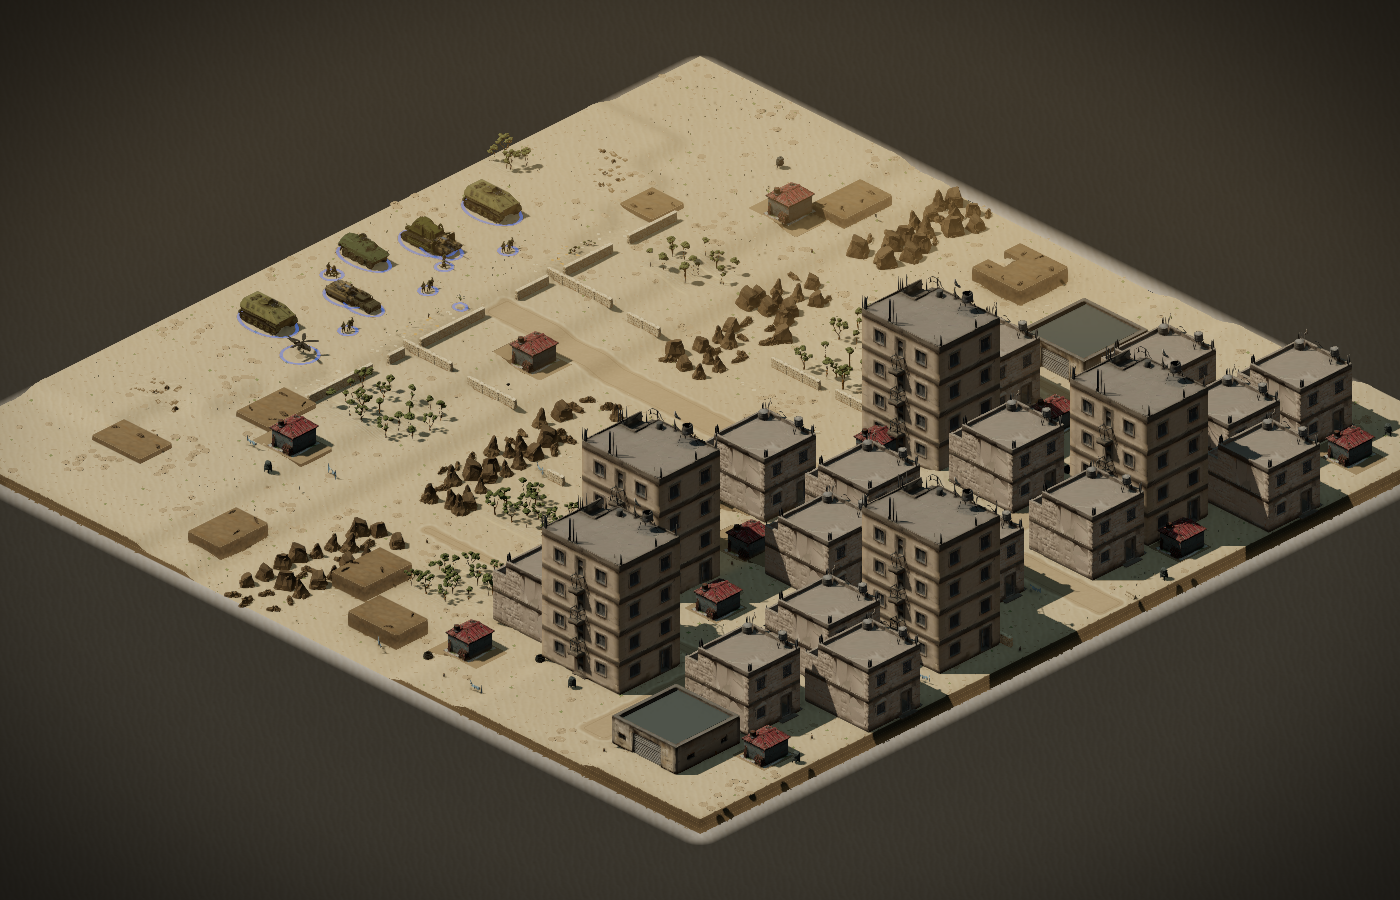
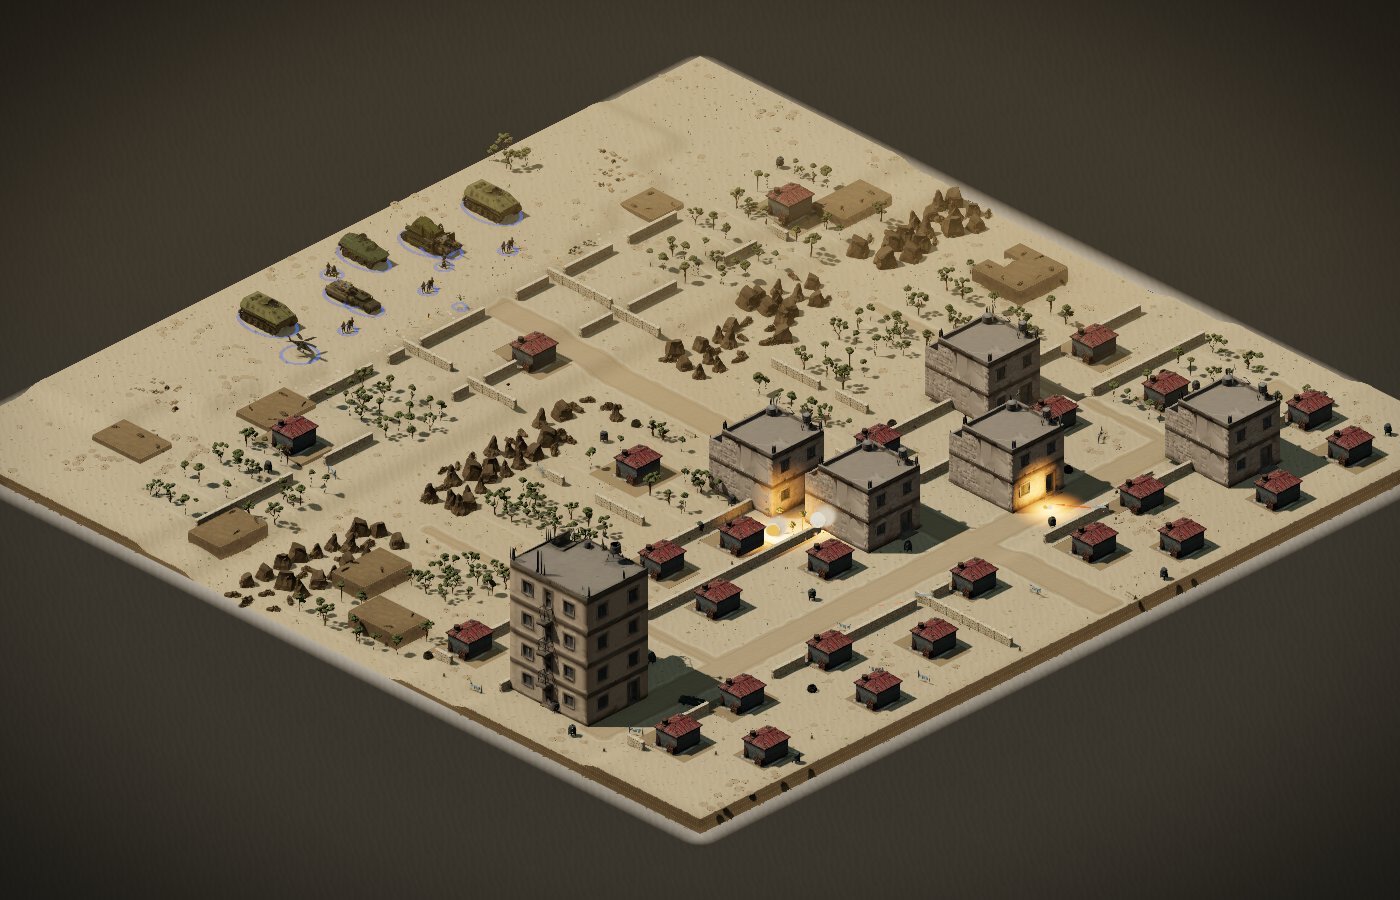
data(campaign): Beit Sahwan II terraces and IV quarry read at overview zoom (GH-382)
II: a second retaining wall along the x=13 step and walls along the three
town-side steps (gates only where roads cross), crop strips and scrub on the
treads, two more crags at the field corners; the east strip is now sheds and
small houses with one apartment block, so the terraces dominate the frame.
IV: the apartment blocks are gone, the quarter is broken houses (sheds) and
rubble; boulder and spoil heaps (level 3) ring the pit's rim, the haul ramp
and road are widened and kerbed with low walls, and the clinic route's vent
moves east of the yard. Probe moves the Zikit to (42,28). Pins: LADDER and
CAMPAIGN credits 5816 -> 5846 (II 190 -> 200, IV 180 -> 200); terrain fixture
regenerated; overview captures re-shot.

diff --git a/tools/src/beit_sahwan_ground.test.ts b/tools/src/beit_sahwan_ground.test.ts
@@ -249,8 +249,8 @@ describe('II: the western terraces', () => {
     expect(gates).toContain(through[0]);
     expect(p.length - 1).toBeGreaterThan(10);
   });
-  it('control: take the wall down and the same walk is the ten steps it looks like', () => {
-    const noWall = edited(m, (rows) => { for (let y = 11; y <= 35; y++) rows[y][9] = '.'; });
+  it('control: take the two terrace walls (x=9 and x=13) down and the same walk is the ten steps it looks like', () => {
+    const noWall = edited(m, (rows) => { for (let y = 11; y <= 35; y++) { rows[y][9] = '.'; rows[y][13] = '.'; } });
     expect(route(noWall, 'foot', [14, 25], [4, 25])).toBe(10);
     expect(route(m, 'foot', [14, 25], [4, 25])!).toBeGreaterThan(10);
   });
@@ -304,7 +304,9 @@ describe('II: the western terraces', () => {
     expect(strip.length).toBeGreaterThanOrEqual(25);
     expect(new Set(strip.map((s) => s.type)).size).toBeGreaterThanOrEqual(4);
     const houses = strip.filter((s) => s.type === 'house');
-    expect(new Set(houses.map((s) => footprint(s, map.width))).size).toBeGreaterThanOrEqual(4);
+    expect(new Set(houses.map((s) => footprint(s, map.width))).size).toBeGreaterThanOrEqual(3);
+    // low town: one apartment block and nothing taller, so the terraces stay the subject
+    expect(strip.filter((s) => s.type === 'apartment' || s.type === 'warehouse').length).toBeLessThanOrEqual(1);
     expect(map.structures.filter((s) => s.tiles.some((t) => t % map.width < 16 && s.type !== 'wall' && s.type !== 'shanty'))).toHaveLength(0);
   });
 });
@@ -483,10 +485,10 @@ describe('IV: the rubble quarter', () => {
   });
   it('you look down into the pit and they cannot look up: a watcher on the apron sees the shaft head floor, one on the floor cannot see the road above it, and flattened both can', () => {
     expect(elevAt(m, 30, 18)).toBe(2);
-    expect(elevAt(m, 28, 12)).toBe(0);
+    expect(elevAt(m, 30, 12)).toBe(0);
     expect(sees(m, [30, 18], [30, 10])).toBe(true);
-    expect(sees(m, [28, 12], [28, 22])).toBe(false);
-    expect(sees(flatten(m), [28, 12], [28, 22])).toBe(true);
+    expect(sees(m, [30, 12], [30, 22])).toBe(false);
+    expect(sees(flatten(m), [30, 12], [30, 22])).toBe(true);
   });
   it('the west route runs along the main road: a two-wide road the whole width of the map, the mouth and the vent on it, and every point of the line on its rows', () => {
     for (let x = 0; x < 48; x++) for (const y of [22, 23]) expect(tile(m, x, y), `(${x},${y})`).toBe('r');

diff --git a/tools/src/backtest/playtest.ts b/tools/src/backtest/playtest.ts
@@ -2749,13 +2749,13 @@ function boughtProbe(
 // GH-382: the quarter's rubble hides most of what the old open fields showed (8 units and a route from
 // (28,27) on the old ground; here (28,27) reads 1 unit). Everywhere the Zikit can see anything on the
 // new ground is inside somebody's weapons, and a unit that dies reads as a failed probe -- it stood on
-// the apron (30,17) and died there, and at the crossroads and the lane. It goes to the south-east
-// corner of the quarter instead (40,33), outside the rubble and clear of every post, where it looks in on
-// the clinic's vent and identifies the two it surfaces.
+// the apron (30,17) and died there, and at the crossroads and the lane. It goes to the east
+// of the clinic yard instead (42,28), outside the rubble and clear of every post, where it looks in on
+// the clinic's mouth and identifies the two it surfaces.
 boughtProbe('beit_sahwan_4_subterranean', bs4Plan, led4In, 'recon_zikit', 30, 'sees', (mine) => ({
   kind: 'move',
   ids: mine,
-  ...M(40, 33),
+  ...M(42, 28),
 }));
 // The Gunship is built on the first tick (50 s) and joins the `raze` approach: an
 // attack-move to the stockpile the depot escort is already walking to.
@@ -3214,10 +3214,10 @@ for (const missionId of missionOrder) ladderCredits += missionCredits.get(missio
 // Amun, not summed), every term on the Qarn Hadid chain and nothing else (II 227 -> 197, III 212 -> 215).
 // II's -30 is fewer survivors handed on (16 out against 19) at the same two stars and ROE 97; III's +3 is
 // ROE 100 against 77, the same two stars.
-// GH-382 moved Beit Sahwan II-IV onto new ground: 5801 -> 5816 (+15, recomputed on the merge with Qarn Hadid),
-// every term on the Beit Sahwan chain and nothing else (II 170 -> 190, III 254 -> 247, IV 178 -> 180;
+// GH-382 moved Beit Sahwan II-IV onto new ground: 5801 -> 5846 (+45, recomputed on the merge with Qarn Hadid),
+// every term on the Beit Sahwan chain and nothing else (II 170 -> 200, III 254 -> 247, IV 178 -> 200;
 // III's ROE is 87 against 94 -- the old town has a house on every side of a shot).
-const LADDER_CREDITS = 5816;
+const LADDER_CREDITS = 5846;
 console.log(`credit ladder: ${ladderCredits} over ${missionOrder.length} missions`);
 if (ladderCredits !== LADDER_CREDITS) {
   console.error(`credit ladder: FAILED — expected ${LADDER_CREDITS}, got ${ladderCredits}`);

diff --git a/packages/app/src/ui/stores-model.ts b/packages/app/src/ui/stores-model.ts
@@ -60,7 +60,7 @@ export function packBonusPercent(pack: CoinPack, base: CoinPack = COIN_PACKS[0])
  *  a finite number of campaigns, and guard G1 (spec §1.7) keeps no credit item
  *  off sale. (It was `LIFETIME_CREDITS = 5849`, stale since GH-345 moved the
  *  ladder, with nothing pinning it.) */
-export const CAMPAIGN_CREDITS = 5816;
+export const CAMPAIGN_CREDITS = 5846;
 /** The same ladder's mission count, for a mean pay a fresh account can quote
  *  before it has been paid for anything. */
 export const LADDER_MISSIONS = 26;
